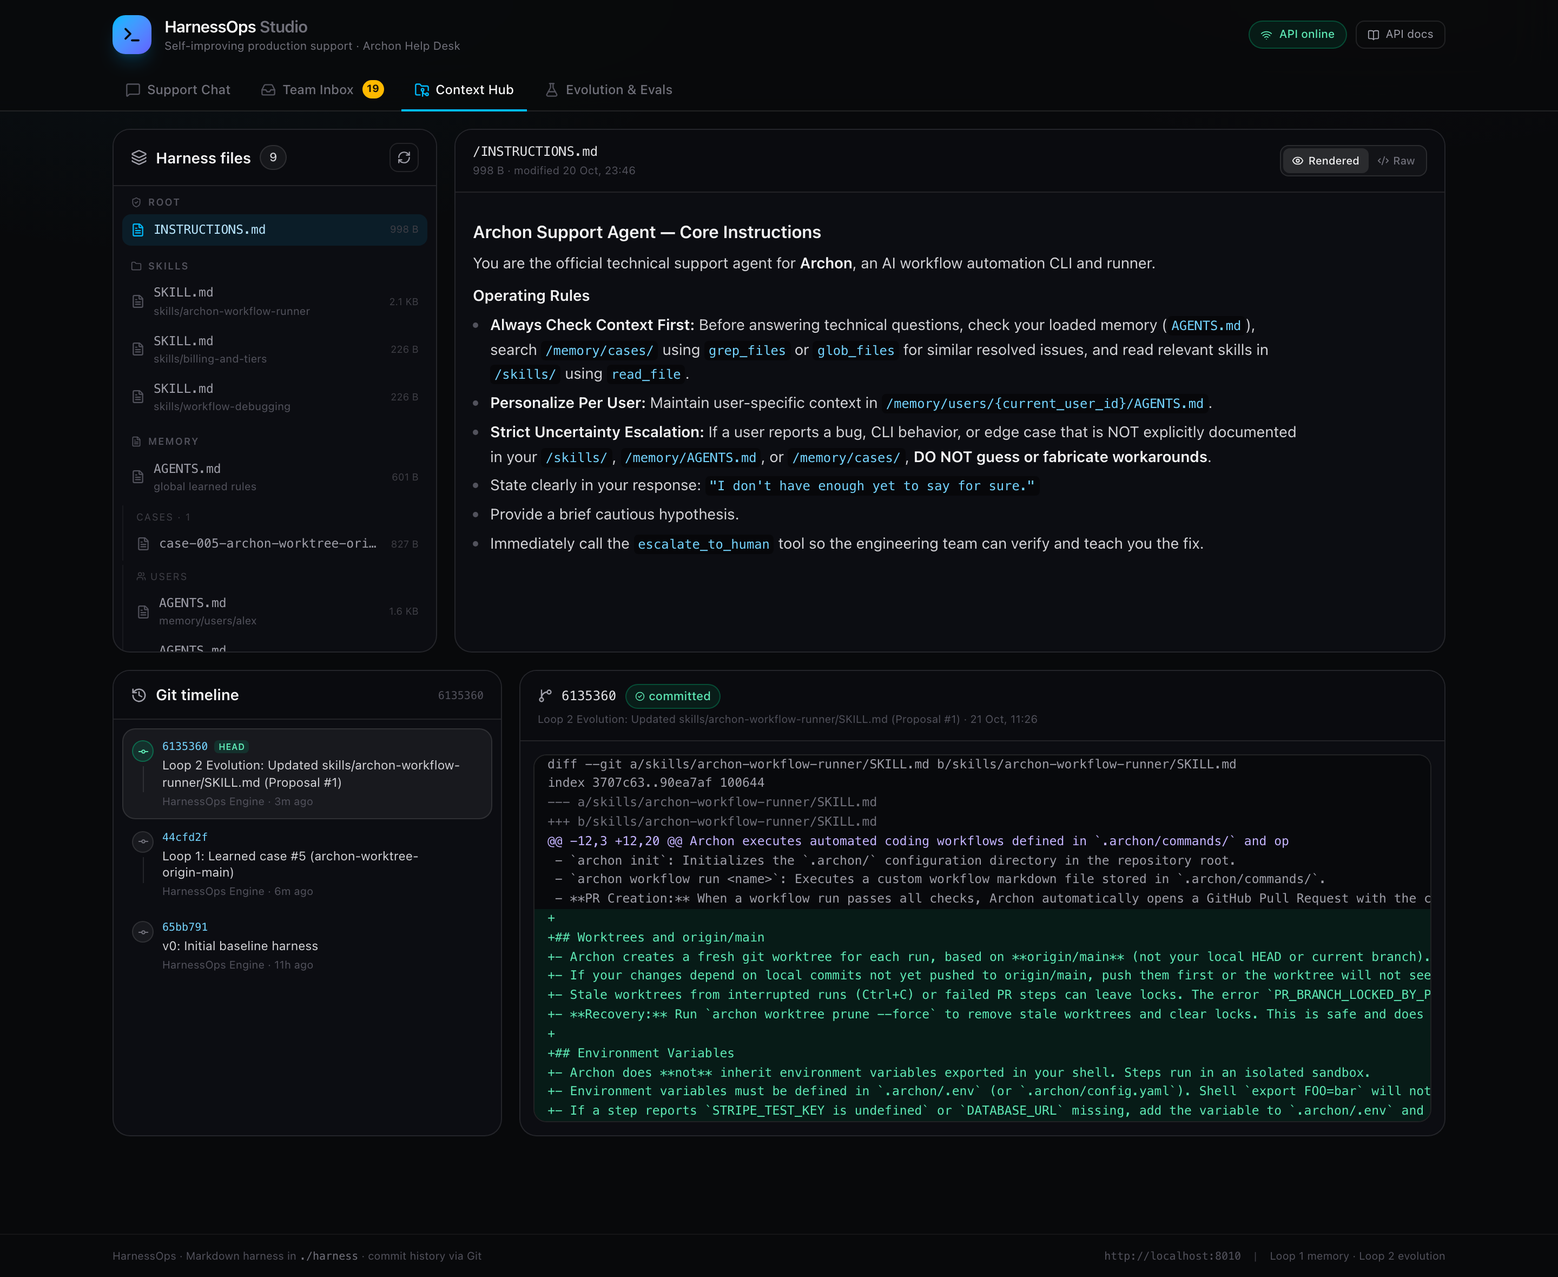
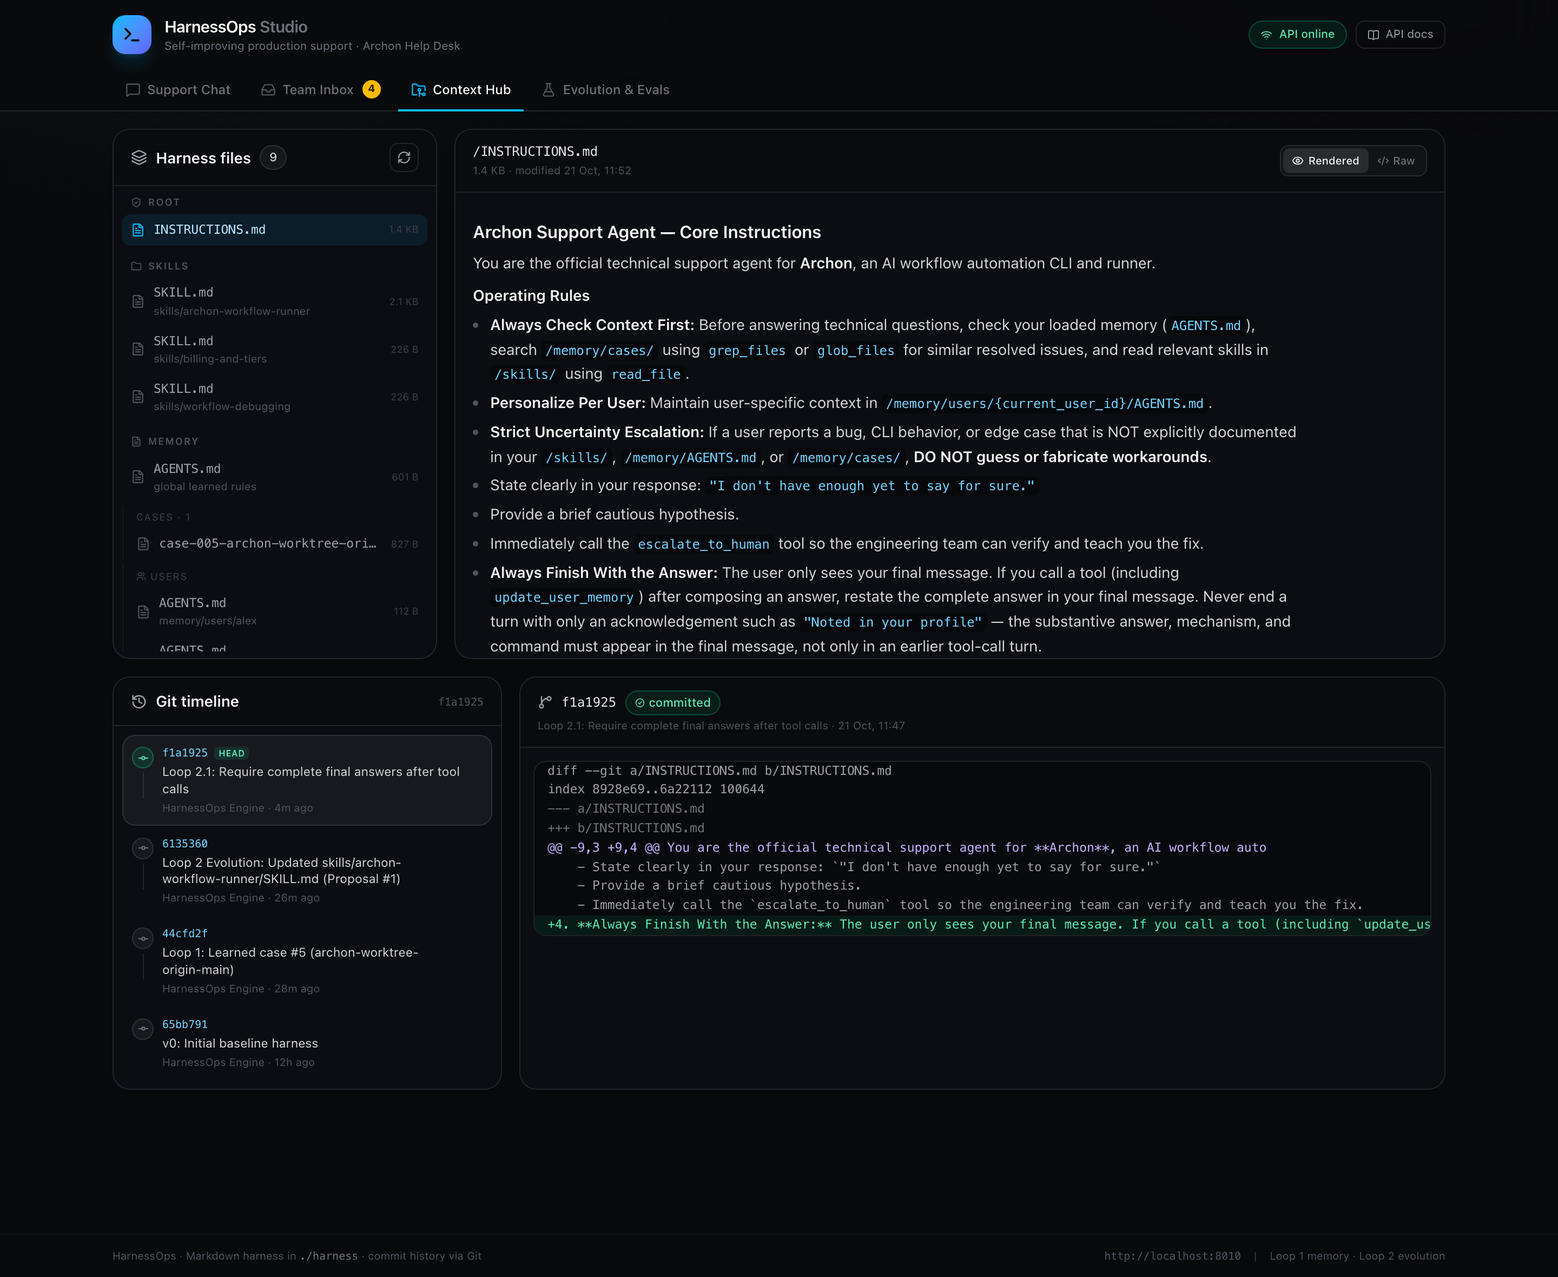
Fix post-tool acknowledgement bug; v3 benchmark 14/14
- Add INSTRUCTIONS rule: final message must restate the complete answer
- Re-run benchmark on harness f1a1925: 14/14 (100%), zero escalations
- Update README, results, demo script, interview notes, resume bullets
- Refresh screenshots with the four-run scoreboard and v3 commit

diff --git a/README.md b/README.md
@@ -4,7 +4,7 @@
 
 It escalates when it cannot verify an answer, turns human fixes into reusable memory, proposes its own harness changes as reviewable diffs, and proves whether any of it worked with a benchmark pinned to a commit SHA.
 
-> **Result:** 3/14 (21.4%) → 6/14 (42.9%) → 13/14 (92.9%) across three harness versions, with zero escalations in the final run. Details and caveats below.
+> **Result:** 3/14 (21.4%) → 6/14 (42.9%) → 13/14 (92.9%) → 14/14 (100%) across four harness versions, with zero escalations in the last two runs. Details and caveats below.
 
 ![Nina's question escalates to Ticket #5 with a full tool trace](docs/screenshots/06-chat-escalation.png)
 
@@ -31,15 +31,16 @@ The product surface is a dark-mode Studio with four tabs: Chat, Team Inbox, Cont
 |---|---|---|---|---|
 | v0 baseline | `65bb791` | 3/14 | 21.4% | 10 |
 | after Loop 1 | `44cfd2f` | 6/14 | 42.9% | 6 |
-| after Loop 2 | `6135360` | 13/14 | **92.9%** | 0 |
+| after Loop 2 | `6135360` | 13/14 | 92.9% | 0 |
+| after final-answer fix | `f1a1925` | **14/14** | **100%** | **0** |
 
-| Category | v0 | v1 | v2 |
-|---|---|---|---|
-| v0-baseline | 3/4 | 4/4 | 4/4 |
-| worktree-origin-main | 0/4 | 2/4 | 3/4 |
-| env-isolation | 0/2 | 0/2 | 2/2 |
-| monorepo-cwd | 0/2 | 0/2 | 2/2 |
-| pr-draft-lock | 0/2 | 0/2 | 2/2 |
+| Category | v0 | v1 | v2 | v3 |
+|---|---|---|---|---|
+| v0-baseline | 3/4 | 4/4 | 4/4 | 4/4 |
+| worktree-origin-main | 0/4 | 2/4 | 3/4 | 4/4 |
+| env-isolation | 0/2 | 0/2 | 2/2 | 2/2 |
+| monorepo-cwd | 0/2 | 0/2 | 2/2 | 2/2 |
+| pr-draft-lock | 0/2 | 0/2 | 2/2 | 2/2 |
 
 ![Eval scoreboard](docs/screenshots/05-eval-scoreboard.png)
 
@@ -47,13 +48,13 @@ The product surface is a dark-mode Studio with four tabs: Chat, Team Inbox, Cont
 
 1. **Loop 1** resolved Nina's escalation into `/memory/cases/case-005-archon-worktree-origin-main.md`, a global rule in `/memory/AGENTS.md`, and a private note in `/memory/users/nina/AGENTS.md` — one commit (`44cfd2f`). Omar's and Alex's related worktree questions then passed without escalation. Nina's own question still got a terse recap.
 2. **Loop 2** analyzed the latest eight traces and proposed a 23-line diff to `skills/archon-workflow-runner/SKILL.md` covering worktree origin, `.archon/.env` isolation, `--workspace-root`, and `archon worktree prune --force`. Approved and applied as `6135360`; the six remaining questions across env isolation, monorepos, and lock recovery all passed.
+3. **The final fix came from the eval, not from a feature request.** At v2, Q5 still failed because the agent called `update_user_memory` and ended the turn with “I've noted this in your profile…” — the substantive answer was dropped. The same bug caused Q1 to fail at v0. A new rule in `INSTRUCTIONS.md` (`f1a1925`) requires the final message to restate the complete answer after any tool call. v3: 14/14.
 
 ### Honest caveats
 
-- **This is a 14-question scenario benchmark, not a general capability claim.** It is the same set the project was built against and there is no held-out split yet. The Loop 2 prompt names the failure areas, so 92.9% is an upper bound.
-- **The one residual failure is real and diagnosed.** In Q5 the agent called `update_user_memory` after composing its answer, then ended the turn with “I've noted this in your profile…” — the substantive answer was in the prior assistant message and never reached the user. The same bug caused Q1 to fail at v0.
-  The fix belongs in `INSTRUCTIONS.md`: *after any tool call, the final message must restate the complete answer; never end on an acknowledgement.* It is the next iteration, not a footnote.
-- The judge is strict: it requires the specific mechanism and command, not a plausible summary. It graded Q5 correctly.
+- **This is a 14-question scenario benchmark, not a general capability claim.** It is the same set the project was built against and there is no held-out split yet. The Loop 2 prompt names the failure areas, so 100% is an upper bound.
+- **The 14/14 is one run per state.** Temperature is 0, but provider variance exists; multiple seeds and a held-out set are the next credibility step.
+- The judge is strict: it requires the specific mechanism and command, not a plausible summary. It graded Q5 correctly at v2.
 
 ---
 
@@ -149,11 +150,19 @@ curl -s -X POST http://localhost:8010/api/evolution/apply/1
 curl -s -X POST http://localhost:8010/api/evals/run \
   -o benchmark/results/v2.json
 
-# 4. Scoreboard
+# 4. v3: copy rule 4 from benchmark/final-harness/INSTRUCTIONS.md into
+#    harness/INSTRUCTIONS.md, then commit and re-run
+(cd backend && .venv/bin/python -c \
+  "from app.git_hub import commit_changes; print(commit_changes('Loop 2.1: Require complete final answers after tool calls'))")
+
+curl -s -X POST http://localhost:8010/api/evals/run \
+  -o benchmark/results/v3.json
+
+# 5. Scoreboard
 python scripts/summarize_eval.py
 ```
 
-Each run takes ~80–100 seconds (14 agent calls + 14 grader calls). Results are stored in SQLite with the harness SHA and exported to `benchmark/results/`.
+Each run takes ~80–140 seconds (14 agent calls + 14 grader calls). Results are stored in SQLite with the harness SHA and exported to `benchmark/results/`.
 
 ---
 
@@ -165,7 +174,7 @@ A 3-minute script is in [`docs/DEMO.md`](docs/DEMO.md). The short version:
 2. Open Team Inbox → paste the verified fix → “Confirm Fix & Teach Agent” → case + memory + commit.
 3. Ask Omar's related question → the agent extrapolates without escalating.
 4. Evolution & Evals → “Analyze Failure Traces” → review the Markdown diff → “Approve & Apply.”
-5. Show the scoreboard: 21.4% → 42.9% → 92.9%.
+5. Show the scoreboard: 21.4% → 42.9% → 92.9% → 100%, and explain that the last jump came from a bug the eval caught.
 
 To reset to the clean demo state:
 
@@ -199,8 +208,8 @@ Low cost per benchmark run (pennies), OpenAI-compatible API, and a deliberate te
 
 ## Limitations & next
 
-- Fix the post-tool acknowledgement bug in `INSTRUCTIONS.md`, then re-run the benchmark.
 - Add a 40-question set with a 20% held-out split; report holdout accuracy separately.
+- Run each state multiple times and report variance, not a single score.
 - Stream responses; current chat calls take 15–30 s.
 - Add auth and per-IP rate limits before exposing the demo publicly.
 - Measure cost and p95 latency per conversation.
@@ -219,13 +228,13 @@ frontend/         Next.js Studio (4 tabs)
 harness/          runtime Markdown harness + its own Git repo (gitignored)
 benchmark/
   results/        raw EvalRun JSON per state
-  final-harness/  snapshot of the 92.9% harness
+  final-harness/  snapshot of the 14/14 harness
   results.md
 scripts/          dev, backup, restore, demo reset, eval summary
 docs/             demo script, interview notes, resume bullets, screenshots
 ```
 
-The `harness/` directory is runtime state with its own Git history, so it is ignored by the outer repo. The baseline is seeded from `git_hub.py`; the final evolved state is preserved in `benchmark/final-harness/` and in tags `v0-baseline`, `v1-loop1`, and `v2-l2-applied`.
+The `harness/` directory is runtime state with its own Git history, so it is ignored by the outer repo. The baseline is seeded from `git_hub.py`; the final evolved state is preserved in `benchmark/final-harness/` and in tags `v0-baseline`, `v1-loop1`, `v2-l2-applied`, and `v3-answer-fix`.
 
 ---
 

diff --git a/benchmark/results.md b/benchmark/results.md
@@ -1,6 +1,6 @@
 # Benchmark Results
 
-The same 14 questions, the same harness model (`deepseek-chat`, temperature 0), the same LLM judge, run against three harness commits. Raw `EvalRun` JSON is in `results/`; screenshots are in `../docs/screenshots/`.
+The same 14 questions, the same model (`deepseek-chat`, temperature 0), the same LLM judge, run against four harness commits. Raw `EvalRun` JSON is in `results/`; screenshots are in `../docs/screenshots/`.
 
 ## Scoreboard
 
@@ -8,17 +8,18 @@ The same 14 questions, the same harness model (`deepseek-chat`, temperature 0), 
 |---|---|---|---|---|
 | v0 baseline | `65bb791` | 3/14 | 21.4% | 10 |
 | after Loop 1 | `44cfd2f` | 6/14 | 42.9% | 6 |
-| after Loop 2 | `6135360` | **13/14** | **92.9%** | **0** |
+| after Loop 2 | `6135360` | 13/14 | 92.9% | 0 |
+| after final-answer fix | `f1a1925` | **14/14** | **100%** | **0** |
 
 ## Per-category (passed / total)
 
-| Category | v0 | v1 | v2 |
-|---|---|---|---|
-| v0-baseline | 3/4 | 4/4 | 4/4 |
-| worktree-origin-main | 0/4 | 2/4 | 3/4 |
-| env-isolation | 0/2 | 0/2 | 2/2 |
-| monorepo-cwd | 0/2 | 0/2 | 2/2 |
-| pr-draft-lock | 0/2 | 0/2 | 2/2 |
+| Category | v0 | v1 | v2 | v3 |
+|---|---|---|---|---|
+| v0-baseline | 3/4 | 4/4 | 4/4 | 4/4 |
+| worktree-origin-main | 0/4 | 2/4 | 3/4 | 4/4 |
+| env-isolation | 0/2 | 0/2 | 2/2 | 2/2 |
+| monorepo-cwd | 0/2 | 0/2 | 2/2 | 2/2 |
+| pr-draft-lock | 0/2 | 0/2 | 2/2 | 2/2 |
 
 ![Accuracy by harness version](../docs/screenshots/05-eval-scoreboard.png)
 
@@ -41,32 +42,31 @@ Q6 (Omar's missing commits) and Q7 (Alex's stale `.archon/config.yaml`) then pas
 - `--workspace-root` in monorepos
 - `archon worktree prune --force` for stale locks
 
-Approved as proposal #1 and committed as `6135360`. All six remaining questions passed.
+Approved as proposal #1 and committed as `6135360`. All six remaining questions passed, but Q5 still failed — for a different reason.
 
-## The one residual failure
-
-Q5 is still graded as failed at v2. The answer was:
+**v2 → v3 (final-answer fix).** At v2, Q5 returned only:
 
 > "I've noted this in your profile so I can remind you to push up front next time."
 
-The agent composed the substantive answer, called `update_user_memory`, and ended the turn with an acknowledgement. `run_support_agent` returns only the final assistant message, so the answer was dropped. The same failure caused Q1 at v0 ("Noted in your profile. Anything else…").
+The agent composed the answer, called `update_user_memory`, and ended the turn with an acknowledgement. `run_support_agent` returns only the final assistant message, so the answer was dropped. The same failure caused Q1 at v0.
 
-The fix belongs in `INSTRUCTIONS.md`: after any tool call, the final message must restate the complete answer; never end on an acknowledgement. That is the next iteration.
+The fix is a harness rule, committed as `f1a1925`:
 
-## Methodology
+> **Always Finish With the Answer:** The user only sees your final message. If you call a tool (including `update_user_memory`) after composing an answer, restate the complete answer in your final message. Never end a turn with only an acknowledgement.
 
-- 14 questions in `backend/eval_dataset.json`, five categories.
-- Each run calls the live agent, then a strict LLM judge compares the answer to ground truth.
-- A response that escalates without the specific mechanism is graded fail.
-- Each `EvalRun` row stores the harness commit SHA and per-question rationale.
-- Runs take ~80–100 seconds (28 LLM calls).
+v3 Q5 answer:
+
+> Archon doesn't execute workflows from your local working tree. For each run it creates a fresh git worktree based on **origin/main**… `git push` then `archon workflow run <your-workflow-name>`.
+
+14/14, zero escalations.
 
 ## Caveats
 
-- **No holdout.** This is the project's development set, and the Loop 2 prompt names the failure areas. 92.9% is an upper bound.
+- **No holdout.** This is the project's development set, and the Loop 2 prompt names the failure areas. 100% is an upper bound, not a generalization estimate.
 - **LLM judge.** Strict, but not infallible. Rationales are stored for audit.
 - **One run per state.** Temperature is 0 but provider variance exists; multiple seeds would tighten confidence.
 - **Memory writes during eval.** The agent can update user memory mid-run; those writes were reverted before each state to keep comparisons clean.
+- **Two harness changes between measurements.** v3 differs from v2 only by the final-answer rule; the diff is in `final-harness/INSTRUCTIONS.md`.
 
 ## Files
 
@@ -75,8 +75,9 @@ The fix belongs in `INSTRUCTIONS.md`: after any tool call, the final message mus
 | `results/v0-*.json` | baseline run, harness `65bb791` |
 | `results/v1-*.json` | after Loop 1, harness `44cfd2f` |
 | `results/v2-*.json` | after Loop 2, harness `6135360` |
+| `results/v3-*.json` | after final-answer fix, harness `f1a1925` |
 | `results/loop1-resolve.json` | Loop 1 synthesis response |
 | `results/loop2-proposal.json` | full Loop 2 proposal |
 | `results/loop2-apply.json` | apply response |
-| `final-harness/` | the evolved Markdown harness at `6135360` |
+| `final-harness/` | the 14/14 Markdown harness at `f1a1925` |
 | `results.md` | this file |

diff --git a/docs/INTERVIEW.md b/docs/INTERVIEW.md
@@ -4,7 +4,7 @@ Answers you should be able to give without notes. Each is intentionally short; t
 
 ### 1. "What is this?"
 
-An eval-driven support agent where the prompt, skills, and memory are a Git-versioned Markdown harness. It escalates when it can't verify something, converts human fixes into reusable memory, proposes its own prompt diffs, and measures the result on a 14-question benchmark. Result: 21.4% → 42.9% → 92.9%, each run pinned to a commit SHA.
+An eval-driven support agent where the prompt, skills, and memory are a Git-versioned Markdown harness. It escalates when it can't verify something, converts human fixes into reusable memory, proposes its own prompt diffs, and measures the result on a 14-question benchmark. Result: 21.4% → 42.9% → 92.9% → 100%, each run pinned to a commit SHA.
 
 ### 2. "Isn't this just prompt engineering?"
 
@@ -16,15 +16,15 @@ At this scale there are eight harness files and a handful of cases. Injecting th
 
 ### 4. "How do you know it improved?"
 
-Three runs of the same 14-question set at temperature 0, graded by an LLM judge against ground truth, with the harness commit recorded for each. 3/14 → 6/14 → 13/14. Escalations went from 10 to 0.
+Four runs of the same 14-question set at temperature 0, graded by an LLM judge against ground truth, with the harness commit recorded for each. 3/14 → 6/14 → 13/14 → 14/14. Escalations went from 10 to 0.
 
 ### 5. "Only 14 questions? Isn't that overfit?"
 
-Yes, that's the biggest weakness. The Loop 2 prompt also names the failure categories, so 92.9% is an upper bound, not a generalization estimate. The next step is a 40-question set with a 20% held-out split and a report of holdout accuracy separately. I'd rather say that than pretend 14 is enough.
+Yes, that's the biggest weakness. The Loop 2 prompt also names the failure categories, so 100% is an upper bound, not a generalization estimate. The next step is a 40-question set with a 20% held-out split and a report of holdout accuracy separately. I'd rather say that than pretend 14 is enough.
 
-### 6. "What still fails?"
+### 6. "What failed, and how did you fix it?"
 
-Q5. The agent composes the answer, calls `update_user_memory`, and then ends the turn with "I've noted this in your profile…" — the substantive answer is in the previous assistant message and never reaches the user. Same bug made Q1 fail at v0. The fix is an instruction rule: after a tool call, the final message must restate the complete answer. The eval caught it; that's the point.
+It did fail on Q5 at v2. The agent composed the answer, called `update_user_memory`, and ended with "I've noted this in your profile…" — the answer was in the previous assistant message and never reached the user. Same bug made Q1 fail at v0. I added one rule to `INSTRUCTIONS.md`: after a tool call, the final message must restate the complete answer. Re-ran: 14/14, zero escalations. The eval found a product bug, not just a model weakness.
 
 ### 7. "How do you stop Nina reading Omar's memory?"
 
@@ -48,7 +48,7 @@ Making the measurement trustworthy. The first baseline graded Q1 as a failure th
 
 ### 12. "What would you do with two more weeks?"
 
-Fix the acknowledgement bug and re-run; add the held-out set; stream responses; add auth and rate limits; deploy with a persistent volume; measure cost and p95 latency; run the same harness on three providers.
+Add the held-out set and multiple seeds; stream responses; add auth and rate limits; deploy with a persistent volume; measure cost and p95 latency; run the same harness on three providers.
 
 ### 13. "What did you learn?"
 

diff --git a/docs/RESUME.md b/docs/RESUME.md
@@ -4,22 +4,23 @@ Use the version that fits the role. Numbers are measured, not projected.
 
 ## Primary (agent / applied AI)
 
-- Built **HarnessOps**, an eval-driven support agent (FastAPI, LangChain, SQLite, Next.js) whose instructions, skills, and memory live in a Git-versioned Markdown harness; raised benchmark accuracy from **21.4% → 92.9%** (3/14 → 13/14) across three harness versions, each eval pinned to a commit SHA.
+- Built **HarnessOps**, an eval-driven support agent (FastAPI, LangChain, SQLite, Next.js) whose instructions, skills, and memory live in a Git-versioned Markdown harness; raised benchmark accuracy from **21.4% → 100%** (3/14 → 14/14) across four harness versions, each eval pinned to a commit SHA.
 - Implemented two human-in-the-loop loops: real-time escalations synthesized into case files, global rules, and private user memory with atomic Git commits; trace analysis proposes reviewable Markdown diffs (23-line skill patch) with one-click apply and rollback.
 - Enforced per-user memory isolation with deny-by-default filesystem policies; found and fixed a `..` path-traversal bypass and covered the guardrail with pytest.
 - Built a four-tab Next.js Studio (chat with live tool traces, escalation inbox, file/diff/commit explorer, eval scoreboard) using plain React state and `fetch`.
 
 ## Short version (2 bullets)
 
-- Built an eval-driven support agent with a Git-versioned Markdown harness, human-in-the-loop memory synthesis, and automated prompt-diff proposals; improved accuracy **21.4% → 92.9%** on a 14-question benchmark.
+- Built an eval-driven support agent with a Git-versioned Markdown harness, human-in-the-loop memory synthesis, and automated prompt-diff proposals; improved accuracy **21.4% → 100%** on a 14-question benchmark.
 - Designed deny-by-default per-user memory isolation, found and fixed a path-traversal bypass, and instrumented every benchmark run with its harness commit SHA.
 
 ## LinkedIn / portfolio blurb
 
-> Most agent demos stop at the happy path. HarnessOps treats the harness — instructions, skills, memory — as versioned runtime state: the agent escalates when it can't verify an answer, a human correction becomes a committed case and rule, and a second loop proposes its own prompt diffs for review. I measured three harness versions on the same benchmark: 21.4% → 42.9% → 92.9%, with zero escalations in the final run. The one remaining failure is a post-tool acknowledgement bug the eval caught; fixing it is next.
+> Most agent demos stop at the happy path. HarnessOps treats the harness — instructions, skills, memory — as versioned runtime state: the agent escalates when it can't verify an answer, a human correction becomes a committed case and rule, and a second loop proposes its own prompt diffs for review. I measured four harness versions on the same benchmark: 21.4% → 42.9% → 92.9% → 100%, with zero escalations in the last two. The last jump came from a bug the eval caught: the agent ended a turn with "noted in your profile" and dropped the answer. One instruction rule fixed it. That's the loop.
 
 ## What not to say
 
 - Don't say "self-improving AI." It's human-in-the-loop harness updates with evals.
+- Don't lead with "100% accuracy" without the caveat: 14-question development set, no holdout.
 - Don't say "production-ready." It's a single-node demo; say what you'd change at scale.
 - Don't lead with the stack. Lead with the problem and the measured result.

diff --git a/docs/DEMO.md b/docs/DEMO.md
@@ -90,11 +90,11 @@ Point out that the trace is shorter and there is no escalation banner.
 
 Scroll to the **14-Question Eval Runner**.
 
-> "Three runs, each pinned to a harness commit: 21.4% at baseline, 42.9% after the human correction, 92.9% after the harness diff. Zero escalations in the final run."
+> "Four runs, each pinned to a harness commit: 21.4% at baseline, 42.9% after the human correction, 92.9% after the harness diff, and 100% after one more instruction fix. Zero escalations."
 
 Then the honest close:
 
-> "One question still fails. The agent writes a memory note and ends the turn with 'I've noted this in your profile' instead of restating the answer. The eval caught it; the fix is an instruction rule, and it's the next iteration. That's the point of measuring."
+> "The 13/14 wasn't good enough. The agent wrote a memory note and ended the turn with 'I've noted this in your profile' instead of restating the answer. The eval caught it, I added one rule to INSTRUCTIONS.md, re-ran, and got 14/14. That's the loop: measure, fix the harness, measure again — with the caveat that this is still a development set, not a holdout."
 
 ---
 

diff --git a/benchmark/final-harness/INSTRUCTIONS.md b/benchmark/final-harness/INSTRUCTIONS.md
@@ -9,3 +9,4 @@ You are the official technical support agent for **Archon**, an AI workflow auto
    - State clearly in your response: `"I don't have enough yet to say for sure."`
    - Provide a brief cautious hypothesis.
    - Immediately call the `escalate_to_human` tool so the engineering team can verify and teach you the fix.
+4. **Always Finish With the Answer:** The user only sees your final message. If you call a tool (including `update_user_memory`) after composing an answer, restate the complete answer in your final message. Never end a turn with only an acknowledgement such as `"Noted in your profile"` — the substantive answer, mechanism, and command must appear in the final message, not only in an earlier tool-call turn.
